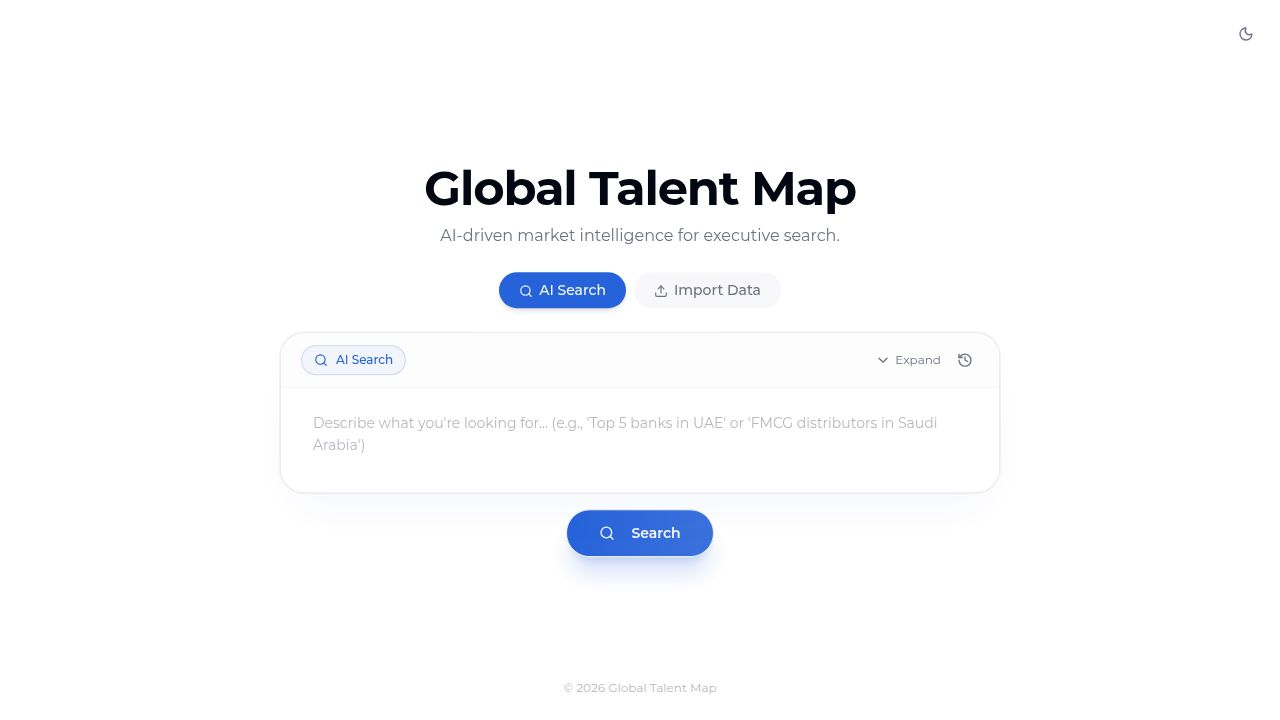
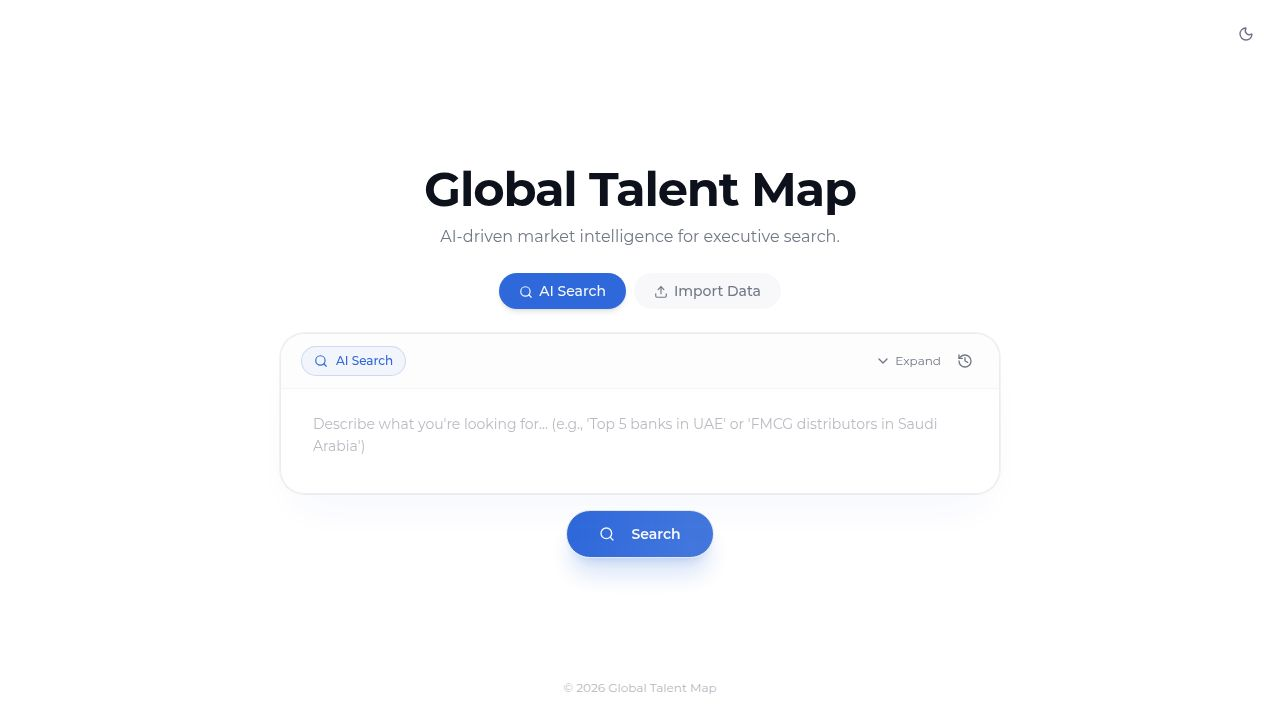
Add projects sidebar to Landing page, remove search history dropdown
Task #1: Add projects sidebar to Landing page

Changes:
- Landing.tsx: Added a narrow left sidebar (w-12) with a FolderOpen icon
  that toggles a ProjectsPanel overlay, matching the Dashboard sidebar style.
  Theme toggle moved from top-right absolute to bottom of sidebar.
- Landing.tsx: Removed the search history dropdown entirely — removed the
  History button from the search header bar, the dropdown overlay that showed
  "Recent Searches" / "Matching Searches", and all related state (showHistory,
  historyRef, filteredHistory, selectHistoryItem, handleLoadHistory).
- Landing.tsx: Restructured layout from single centered column to two-column
  (sidebar + flex-1 content area), maintaining centered content alignment.
- Landing.tsx: Removed unused imports (History, useMemo, useSearchHistory).
- ProjectsPanel.tsx: Added optional `onProjectLoaded` callback prop, called
  after a project is successfully loaded. Landing uses this to navigate to
  /dashboard after loading a project from the sidebar.
- ProjectsPanel.tsx: Added optional `offsetTop` prop (default 56) to control
  vertical positioning. Dashboard uses default (56 for top bar), Landing
  passes 8 (no top bar).

diff --git a/client/src/pages/Landing.tsx b/client/src/pages/Landing.tsx
@@ -1,14 +1,16 @@
-import { useState, useRef, useEffect, useCallback, useMemo } from 'react';
+import { useState, useRef, useEffect, useCallback } from 'react';
 import { useLocation } from 'wouter';
 import { useAppStore } from '@/lib/store';
-import { useSearch, useSearchHistory } from '@/lib/api';
+import { useSearch } from '@/lib/api';
 import { Textarea } from '@/components/ui/textarea';
 import { Button } from '@/components/ui/button';
-import { Search, Loader2, ChevronDown, ChevronUp, History, Upload, Table2, Plus, Trash2, FileSpreadsheet, X, Sun, Moon } from 'lucide-react';
+import { Search, Loader2, ChevronDown, ChevronUp, Upload, Table2, Plus, Trash2, FileSpreadsheet, X, Sun, Moon, FolderOpen } from 'lucide-react';
+import { Tooltip, TooltipContent, TooltipProvider, TooltipTrigger } from '@/components/ui/tooltip';
 import { motion } from 'framer-motion';
 import { toast } from 'sonner';
 import * as XLSX from 'xlsx';
 import { COUNTRIES } from '@/lib/countries';
+import ProjectsPanel from '@/components/panels/ProjectsPanel';
 
 function ComboboxCell({ value, onChange, options, placeholder, testId, fetchOptions }: {
   value: string;
@@ -213,16 +215,14 @@ function createEmptyRow(): ManualRow {
 
 export default function Landing() {
   const [input, setInput] = useState('');
-  const [showHistory, setShowHistory] = useState(false);
   const [isPromptExpanded, setIsPromptExpanded] = useState(false);
+  const [showProjectsPanel, setShowProjectsPanel] = useState(false);
   const [, setLocation] = useLocation();
   const inputRef = useRef<HTMLTextAreaElement>(null);
-  const historyRef = useRef<HTMLDivElement>(null);
   const fileInputRef = useRef<HTMLInputElement>(null);
   
   const { setProject, loadFromAPI } = useAppStore();
   const searchMutation = useSearch();
-  const { data: searchHistory } = useSearchHistory();
 
   const [mode, setMode] = useState<LandingMode>('search');
   const [importTab, setImportTab] = useState<'file' | 'paste' | 'manual'>('file');
@@ -241,56 +241,6 @@ export default function Landing() {
     Array.from({ length: 5 }, createEmptyRow)
   );
 
-  const handleLoadHistory = async (item: any) => {
-    try {
-      loadFromAPI([]);
-      toast.loading('Loading previous search results...', { id: 'load-history' });
-      const response = await fetch(`/api/search-history/${item.id}/load`);
-      if (!response.ok) throw new Error('Failed to load history');
-      const data = await response.json();
-      toast.dismiss('load-history');
-
-      if (!data.results || data.results.length === 0) {
-        toast.error('No results found for this search.');
-        return;
-      }
-
-      setProject({
-        id: String(item.id),
-        name: item.query,
-        search_string: item.query,
-        created_at: new Date(item.createdAt)
-      });
-      loadFromAPI(data.results, data.satelliteHierarchies || {});
-      toast.success(`Loaded ${data.results.length} companies from history`);
-      setLocation('/dashboard');
-    } catch (error) {
-      toast.dismiss('load-history');
-      toast.error('Failed to load search history');
-      console.error(error);
-    }
-  };
-
-  useEffect(() => {
-    const handleClickOutside = (e: MouseEvent) => {
-      if (historyRef.current && !historyRef.current.contains(e.target as Node)) {
-        setShowHistory(false);
-      }
-    };
-    document.addEventListener('mousedown', handleClickOutside);
-    return () => document.removeEventListener('mousedown', handleClickOutside);
-  }, []);
-
-  const selectHistoryItem = (query: string) => {
-    setInput(query);
-    setShowHistory(false);
-    inputRef.current?.focus();
-  };
-
-  const filteredHistory = searchHistory?.filter((item: any) => 
-    item.query.toLowerCase().includes(input.toLowerCase())
-  ).sort((a: any, b: any) => a.query.localeCompare(b.query)) || [];
-
   const handleSearch = async (e: React.FormEvent) => {
     e.preventDefault();
     if (!input.trim()) {
@@ -298,7 +248,6 @@ export default function Landing() {
       return;
     }
 
-    setShowHistory(false);
     loadFromAPI([]);
     
     try {
@@ -530,24 +479,60 @@ export default function Landing() {
   };
 
   return (
-    <div className="h-screen w-screen flex flex-col items-center justify-center bg-background relative overflow-hidden">
-      <button
-        onClick={toggleTheme}
-        className="absolute top-4 right-4 z-20 w-9 h-9 rounded-lg flex items-center justify-center text-muted-foreground hover:text-foreground hover:bg-muted/50 transition-colors"
-        data-testid="landing-theme-toggle"
-      >
-        {isDark ? <Sun className="w-4 h-4" /> : <Moon className="w-4 h-4" />}
-      </button>
-      <div className="absolute inset-0 z-0 opacity-5 pointer-events-none">
-        <div className="absolute top-0 left-0 w-full h-full bg-[radial-gradient(circle_at_center,_var(--tw-gradient-stops))] from-primary via-background to-background" />
-      </div>
+    <div className="h-screen w-screen flex bg-background relative overflow-hidden">
+      <TooltipProvider delayDuration={300}>
+        <div className="h-full w-12 bg-sidebar border-r border-sidebar-border flex flex-col items-center py-2 shrink-0" data-testid="landing-sidebar">
+          <Tooltip>
+            <TooltipTrigger asChild>
+              <button
+                onClick={() => setShowProjectsPanel(prev => !prev)}
+                className={`w-8 h-8 rounded-lg flex items-center justify-center mb-1 transition-colors ${
+                  showProjectsPanel
+                    ? 'bg-sidebar-accent text-sidebar-foreground shadow-sm'
+                    : 'text-sidebar-foreground/60 hover:text-sidebar-foreground hover:bg-sidebar-accent'
+                }`}
+                data-testid="sidebar-projects"
+              >
+                <FolderOpen className="w-4 h-4" />
+              </button>
+            </TooltipTrigger>
+            <TooltipContent side="right" className="text-xs">Projects</TooltipContent>
+          </Tooltip>
+          <div className="flex-1" />
+          <Tooltip>
+            <TooltipTrigger asChild>
+              <button
+                onClick={toggleTheme}
+                className="w-8 h-8 rounded-lg flex items-center justify-center text-sidebar-foreground/60 hover:text-sidebar-foreground hover:bg-sidebar-accent transition-colors"
+                data-testid="landing-theme-toggle"
+              >
+                {isDark ? <Sun className="w-4 h-4" /> : <Moon className="w-4 h-4" />}
+              </button>
+            </TooltipTrigger>
+            <TooltipContent side="right" className="text-xs">{isDark ? 'Light mode' : 'Dark mode'}</TooltipContent>
+          </Tooltip>
+        </div>
+      </TooltipProvider>
 
-      <motion.div 
-        initial={{ opacity: 0, y: 20 }}
-        animate={{ opacity: 1, y: 0 }}
-        transition={{ duration: 0.8, ease: "easeOut" }}
-        className="z-10 w-full max-w-3xl px-6 text-center"
-      >
+      {showProjectsPanel && (
+        <ProjectsPanel
+          onClose={() => setShowProjectsPanel(false)}
+          onProjectLoaded={() => setLocation('/dashboard')}
+          offsetTop={8}
+        />
+      )}
+
+      <div className="flex-1 flex flex-col items-center justify-center relative overflow-hidden">
+        <div className="absolute inset-0 z-0 opacity-5 pointer-events-none">
+          <div className="absolute top-0 left-0 w-full h-full bg-[radial-gradient(circle_at_center,_var(--tw-gradient-stops))] from-primary via-background to-background" />
+        </div>
+
+        <motion.div 
+          initial={{ opacity: 0, y: 20 }}
+          animate={{ opacity: 1, y: 0 }}
+          transition={{ duration: 0.8, ease: "easeOut" }}
+          className="z-10 w-full max-w-3xl px-6 text-center"
+        >
         <h1 className="text-4xl md:text-5xl font-serif font-bold tracking-tight text-foreground mb-3">
           Global Talent Map
         </h1>
@@ -585,7 +570,7 @@ export default function Landing() {
         {mode === 'search' && (
           <form onSubmit={handleSearch} className="relative max-w-3xl mx-auto">
             <div className="flex flex-col gap-4">
-              <div className="relative" ref={historyRef}>
+              <div className="relative">
                 <div className={`bg-gradient-to-b from-background to-background/95 backdrop-blur-xl shadow-2xl shadow-primary/5 border border-border/80 overflow-hidden transition-all duration-300 ring-1 ring-black/5 ${isPromptExpanded ? 'rounded-2xl' : 'rounded-3xl'}`}>
                   <div className="flex items-center px-5 py-3 border-b border-border/40 bg-muted/20">
                     <div className="flex items-center gap-2 px-3 py-1.5 rounded-full bg-primary/5 border border-primary/20">
@@ -593,36 +578,22 @@ export default function Landing() {
                       <span className="text-xs font-medium text-primary">AI Search</span>
                     </div>
                     <div className="flex-1" />
-                    <div className="flex items-center gap-1">
-                      <button 
-                        type="button"
-                        onClick={() => setIsPromptExpanded(!isPromptExpanded)}
-                        className="p-1.5 hover:bg-muted rounded-md transition-colors flex items-center gap-1"
-                        title={isPromptExpanded ? "Collapse prompt" : "Expand for detailed prompt"}
-                        data-testid="button-toggle-prompt-expand"
-                      >
-                        {isPromptExpanded ? <ChevronUp className="h-4 w-4 text-muted-foreground" /> : <ChevronDown className="h-4 w-4 text-muted-foreground" />}
-                        <span className="text-xs text-muted-foreground">{isPromptExpanded ? 'Collapse' : 'Expand'}</span>
-                      </button>
-                      <button 
-                        type="button"
-                        onClick={() => setShowHistory(!showHistory)}
-                        className="p-1.5 hover:bg-muted rounded-md transition-colors"
-                        title="Search history"
-                        data-testid="button-toggle-history"
-                      >
-                        <History className="h-4 w-4 text-muted-foreground" />
-                      </button>
-                    </div>
+                    <button 
+                      type="button"
+                      onClick={() => setIsPromptExpanded(!isPromptExpanded)}
+                      className="p-1.5 hover:bg-muted rounded-md transition-colors flex items-center gap-1"
+                      title={isPromptExpanded ? "Collapse prompt" : "Expand for detailed prompt"}
+                      data-testid="button-toggle-prompt-expand"
+                    >
+                      {isPromptExpanded ? <ChevronUp className="h-4 w-4 text-muted-foreground" /> : <ChevronDown className="h-4 w-4 text-muted-foreground" />}
+                      <span className="text-xs text-muted-foreground">{isPromptExpanded ? 'Collapse' : 'Expand'}</span>
+                    </button>
                   </div>
                   <div className="px-5 py-4">
                     <Textarea 
                       ref={inputRef}
                       value={input}
                       onChange={(e) => setInput(e.target.value)}
-                      onFocus={() => {
-                        if (!isPromptExpanded && input.length < 50) setShowHistory(true);
-                      }}
                       placeholder={isPromptExpanded 
                         ? `Enter a detailed search prompt...\n\nExample:\nTask: List exactly 10 operating companies involved in renewable power transmission...\n\nInclusion criteria:\n- Entity must be a company, not a project or SPV\n- Must have operational involvement in target sector\n\nExclusion criteria:\n- Exclude pure contractors with no operating assets\n\nData rules:\n- Revenue must only be included if explicitly stated\n- If data is unclear, return "Unknown"`
                         : "Describe what you're looking for... (e.g., 'Top 5 banks in UAE' or 'FMCG distributors in Saudi Arabia')"
@@ -635,53 +606,6 @@ export default function Landing() {
                     />
                   </div>
                 </div>
-                
-                {showHistory && (
-                  <div className="absolute top-full left-0 right-0 mt-2 bg-card border border-border rounded-xl shadow-2xl max-h-72 overflow-hidden z-50">
-                    <div className="p-3 border-b border-border bg-muted/30">
-                      <span className="text-sm font-medium text-muted-foreground flex items-center gap-2">
-                        <History className="h-4 w-4" /> {input ? 'Matching Searches' : 'Recent Searches'}
-                      </span>
-                    </div>
-                    {filteredHistory.length > 0 ? (
-                      <div className="overflow-y-auto max-h-56">
-                        {filteredHistory.slice(0, 10).map((item: any, index: number) => (
-                          <div
-                            key={`${item.id}-${index}`}
-                            className="w-full text-left px-4 py-3 hover:bg-primary/5 transition-colors border-b border-border/30 last:border-0 group cursor-pointer"
-                            data-testid={`button-history-item-${index}`}
-                            onClick={() => selectHistoryItem(item.query)}
-                          >
-                            <div className="flex items-center gap-3">
-                              <Search className="h-4 w-4 text-muted-foreground group-hover:text-primary transition-colors shrink-0" />
-                              <div className="flex-1 min-w-0">
-                                <div className="font-medium truncate group-hover:text-primary transition-colors">{item.query}</div>
-                                <div className="text-xs text-muted-foreground mt-0.5 flex items-center gap-2">
-                                  <span>{new Date(item.createdAt).toLocaleDateString()}</span>
-                                  {(item.companyCount || item.resultCount) > 0 && (
-                                    <span className="text-primary/70">{item.companyCount || item.resultCount} companies</span>
-                                  )}
-                                </div>
-                              </div>
-                              <button
-                                type="button"
-                                onClick={(e) => { e.stopPropagation(); handleLoadHistory(item); }}
-                                className="opacity-0 group-hover:opacity-100 transition-opacity bg-transparent hover:bg-primary/10 hover:text-primary px-3 py-1.5 rounded-md text-sm font-medium"
-                              >
-                                Load
-                              </button>
-                            </div>
-                          </div>
-                        ))}
-                      </div>
-                    ) : (
-                      <div className="p-6 text-center text-muted-foreground">
-                        <p className="text-sm">{input ? 'No matching searches' : 'No previous searches yet'}</p>
-                        <p className="text-xs mt-1">{input ? 'Try a different search term' : 'Your search history will appear here'}</p>
-                      </div>
-                    )}
-                  </div>
-                )}
               </div>
               
               <div className="flex items-center justify-center gap-3">
@@ -965,10 +889,11 @@ export default function Landing() {
             </div>
           </div>
         )}
-      </motion.div>
+        </motion.div>
       
-      <div className="absolute bottom-6 text-xs text-muted-foreground opacity-50">
-        &copy; 2026 Global Talent Map
+        <div className="absolute bottom-6 text-xs text-muted-foreground opacity-50">
+          &copy; 2026 Global Talent Map
+        </div>
       </div>
     </div>
   );

diff --git a/client/src/components/panels/ProjectsPanel.tsx b/client/src/components/panels/ProjectsPanel.tsx
@@ -9,9 +9,11 @@ import { useQueryClient } from '@tanstack/react-query';
 
 interface ProjectsPanelProps {
   onClose: () => void;
+  onProjectLoaded?: () => void;
+  offsetTop?: number;
 }
 
-export default function ProjectsPanel({ onClose }: ProjectsPanelProps) {
+export default function ProjectsPanel({ onClose, onProjectLoaded, offsetTop = 56 }: ProjectsPanelProps) {
   const { data: history, isLoading } = useSearchHistory();
   const { currentProject, setProject, loadFromAPI } = useAppStore();
   const [, setLocation] = useLocation();
@@ -92,6 +94,7 @@ export default function ProjectsPanel({ onClose }: ProjectsPanelProps) {
         toast.success(`Loaded ${results.length} companies`);
       }
       onClose();
+      onProjectLoaded?.();
     } catch {
       toast.dismiss('load-project');
       toast.error('Failed to load project');
@@ -159,7 +162,7 @@ export default function ProjectsPanel({ onClose }: ProjectsPanelProps) {
     <div
       ref={panelRef}
       className="absolute left-12 top-0 z-50 w-72 max-h-[80vh] bg-popover border border-border rounded-lg shadow-xl flex flex-col overflow-hidden"
-      style={{ marginTop: 56, marginLeft: 4 }}
+      style={{ marginTop: offsetTop, marginLeft: 4 }}
       data-testid="projects-panel"
     >
       <div className="flex items-center gap-2 px-3 py-2 border-b border-border shrink-0">
